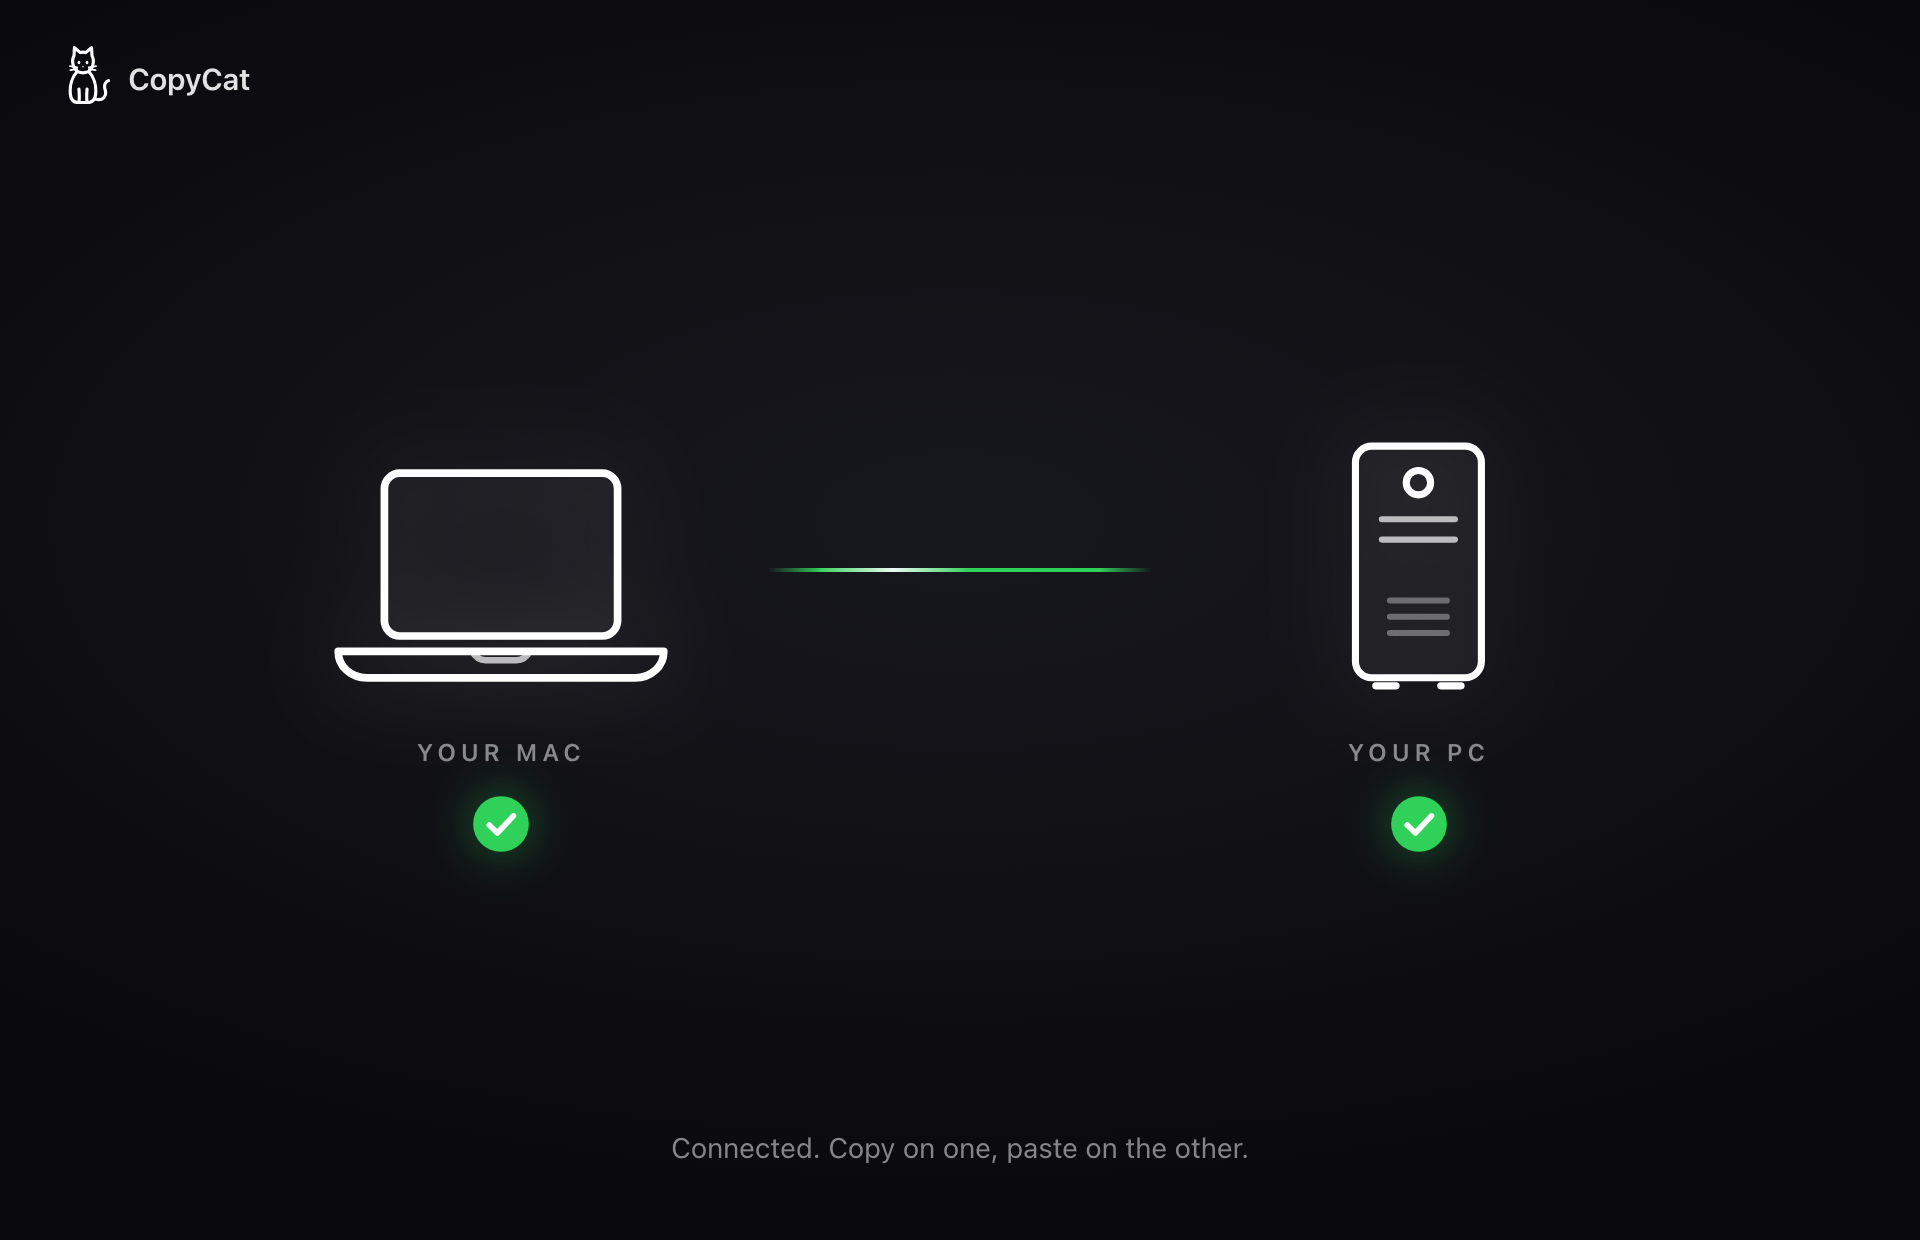
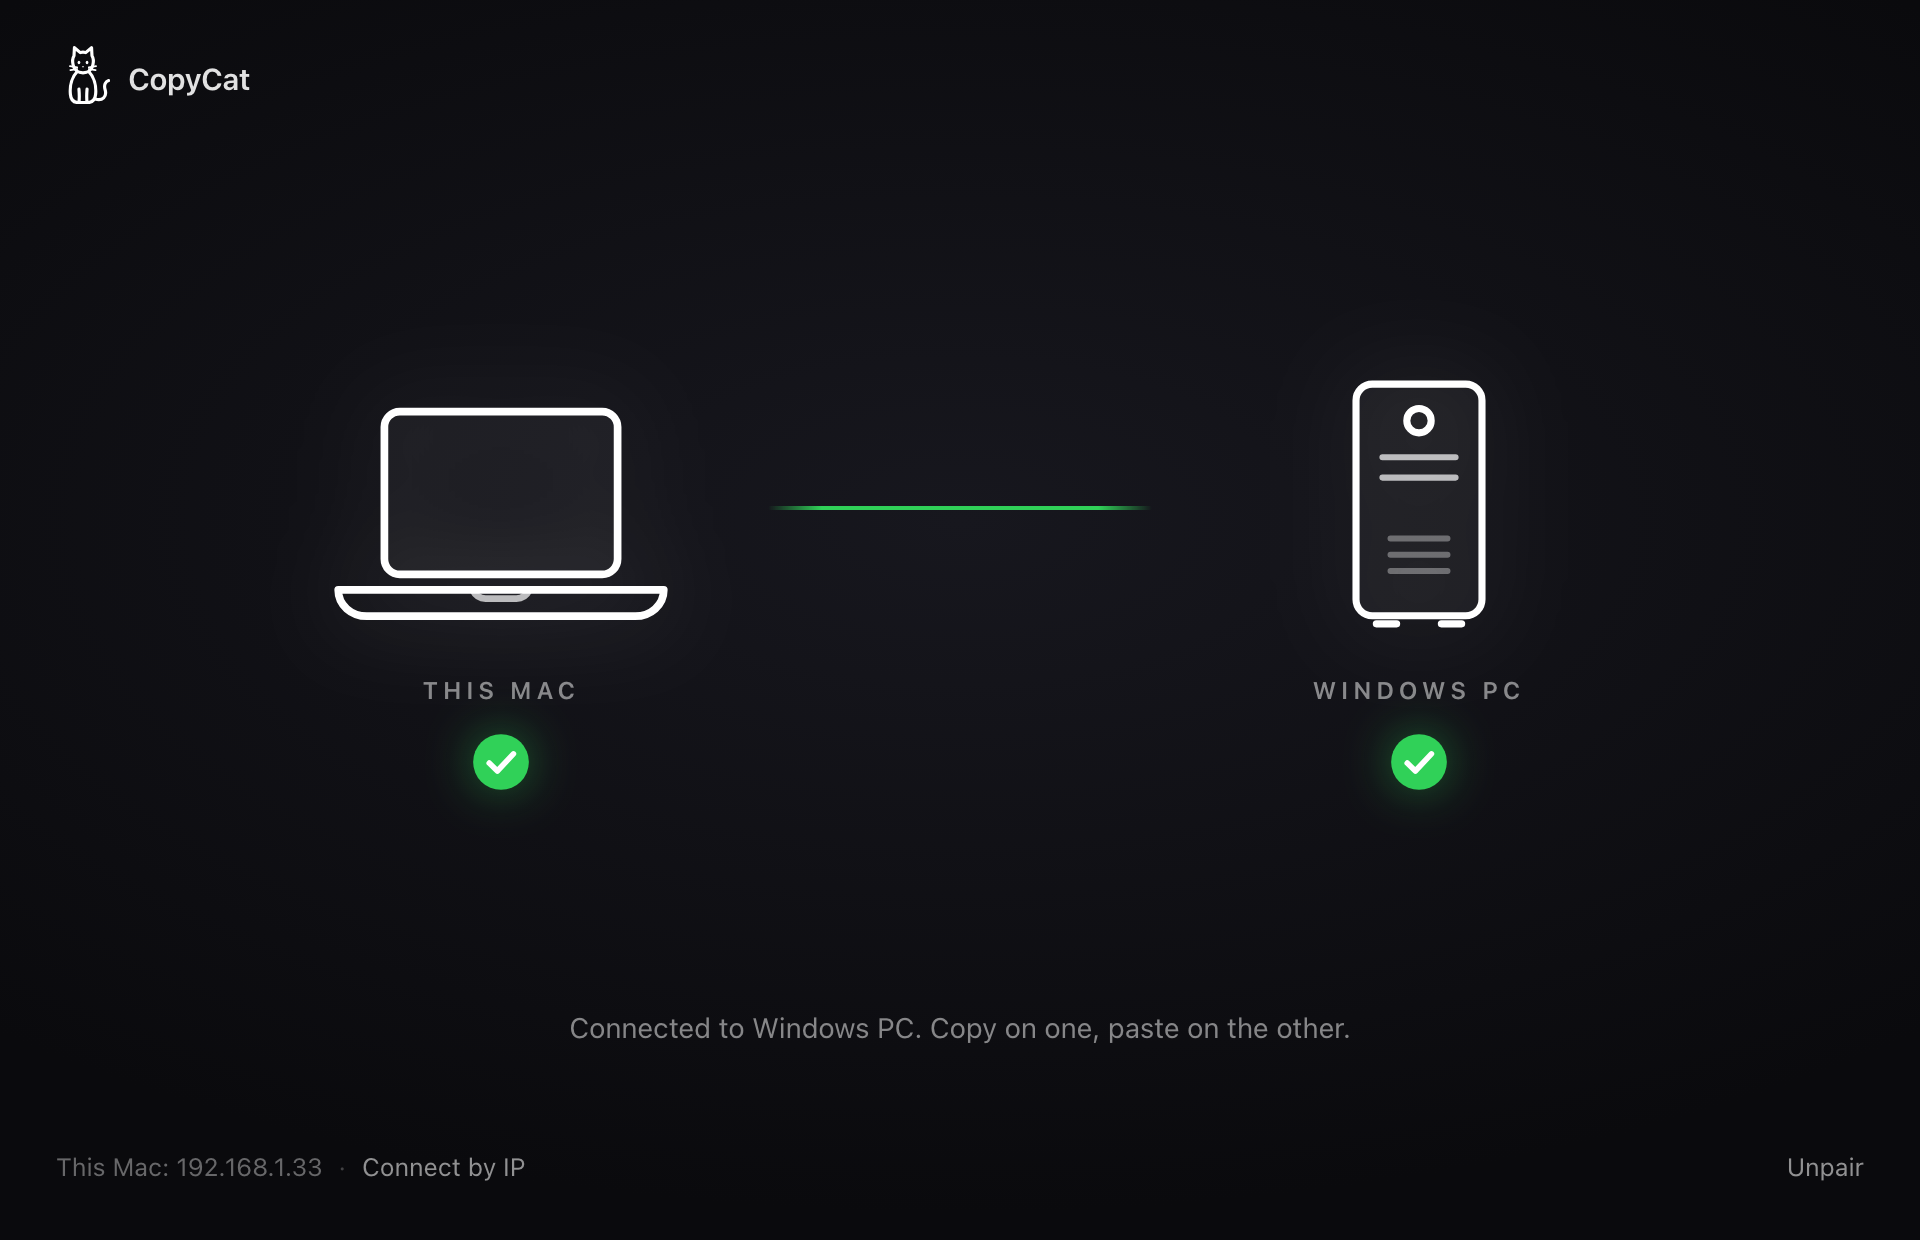
Rewrite the README with downloads, pairing and security; drop the terminal-only script

diff --git a/README.md b/README.md
@@ -1,64 +1,88 @@
 # CopyCat
 
-Copy on your Mac, paste on your Windows PC, and the other way around. CopyCat keeps both clipboards in sync over your home Wi-Fi. No cloud, no account, no third-party service.
+Copy on your Mac, paste on your Windows PC, and the other way around. CopyCat keeps two computers' clipboards in sync over your Wi-Fi. No cloud, no account, and everything it sends is encrypted.
 
 | Launch | Connected |
 |---|---|
 | ![CopyCat launch screen](screenshots/launch.png) | ![Mac and PC both connected](screenshots/connected.png) |
 
-## What it does
+## Download
 
-- **Launch animation:** the CopyCat wordmark fades in letter by letter, then a line-art cat draws itself, blinks and swishes its tail.
-- **Connection screen:** your Mac and your PC side by side. Grey dots mean not connected, a spinner means connecting, and a green check means connected.
-- **Text sync:** code, links, paragraphs, anything you copy as text.
-- **Both directions:** Mac to Windows and Windows to Mac.
-- **Auto-reconnect:** the PC retries every 5 seconds if the connection drops.
-- **Echo prevention:** text that just arrived is never sent back.
+| Computer | File |
+|---|---|
+| Mac (Apple Silicon, M1 or newer) | [CopyCat-mac.zip](https://github.com/vhrcam/clipboard-sync/releases/latest/download/CopyCat-mac.zip) |
+| Windows 10 / 11 | [CopyCat-windows.exe](https://github.com/vhrcam/clipboard-sync/releases/latest/download/CopyCat-windows.exe) |
+
+All versions are on the [Releases page](https://github.com/vhrcam/clipboard-sync/releases).
+
+### First launch on a Mac
+
+1. Unzip `CopyCat-mac.zip` and drag **CopyCat** into **Applications**.
+2. Open it. macOS says it can't verify the app, because CopyCat isn't signed with a paid Apple developer account. Click **Done**.
+3. Open **System Settings → Privacy & Security**, scroll down to "CopyCat was blocked", and click **Open Anyway**.
+4. When CopyCat asks to find devices on your local network, click **Allow**. This is how it finds your other computer.
+
+### First launch on Windows
+
+1. Run `CopyCat-windows.exe`.
+2. If "Windows protected your PC" appears, click **More info → Run anyway**. It appears because the app isn't code-signed.
+3. When Windows Firewall asks, tick **Private networks** and click **Allow**.
+
+## Pairing
+
+1. Open CopyCat on both computers, on the same Wi-Fi.
+2. They find each other on their own and both show a 6-digit code.
+3. Check that the codes match, then click **Pair** on both.
+
+That's it. From then on the two reconnect automatically whenever both are open. Copy on one and paste on the other, and a dot travels along the line each time something syncs.
+
+**If they don't find each other** (school and work Wi-Fi often block this): click **Connect by IP** at the bottom of one computer and type the IP shown at the bottom-left of the other.
+
+**To stop syncing with a computer**, click **Unpair** in the bottom-right corner.
 
 ## How it works
 
-- The Mac runs a WebSocket server and the PC connects to it.
-- Each side checks its clipboard every 0.3 seconds and sends anything new as a small JSON message.
-- Text received from the other computer is remembered before it's written to the clipboard, so it doesn't bounce back.
-- The app window is built with [pywebview](https://pywebview.flowrl.com/): Python runs the sync and an HTML/CSS screen shows the status, in a native window on both macOS and Windows.
+- Each copy of CopyCat runs a small WebSocket server and announces itself on the local network with mDNS (`_copycat._tcp`), the same way AirPlay and printers are found.
+- Every 0.3 seconds it checks the clipboard. New text is encrypted and sent to the paired computer, which writes it to its own clipboard.
+- Text that just arrived is remembered before it's written, so it never bounces back.
+- The window is HTML/CSS shown with [pywebview](https://pywebview.flowrl.com/), so the same Python code runs the app on macOS and Windows.
 
-## Run it
+## Security
 
-Set up once on each computer:
+- Each computer creates its own key pair on first launch (X25519).
+- When two computers connect, they agree on a fresh key for that session and encrypt everything with ChaCha20-Poly1305.
+- The pairing code is calculated from both computers' keys. If someone on the network tried to sit in the middle, the two screens would show different codes.
+- After pairing, each computer only trusts the other's exact key. A device that copies the name or the public key but doesn't have the secret key gets disconnected.
+- Nothing leaves your local network. Settings live in `~/Library/Application Support/CopyCat` (Mac) or `%APPDATA%\CopyCat` (Windows): `identity.key`, `paired.json` and `copycat.log`.
+
+## Run from source
 
 ```
 python3 -m venv venv
 source venv/bin/activate        # Windows: venv\Scripts\activate
 pip install -r requirements.txt
-```
-
-Open the app:
-
-```
 python app.py
 ```
 
-Terminal version of the sync, while it's being connected to the app. On the Mac:
+Run the tests:
 
 ```
-python clipboard.py server
+pip install pytest
+python -m pytest tests
 ```
 
-It prints the Mac's IP address. On the PC:
+Build the app yourself (makes `dist/CopyCat.app` on a Mac, `dist/CopyCat.exe` on Windows):
 
 ```
-python clipboard.py client <mac-ip>
+pip install pyinstaller
+pyinstaller CopyCat.spec
 ```
 
-## Status
-
-- [x] Clipboard sync engine (`clipboard.py`)
-- [x] App window, launch animation and connection screen (the statuses are a demo for now)
-- [ ] Connect the screen to the real sync
-- [ ] Package as a double-click `.app` and `.exe`
+GitHub Actions runs the tests and builds both versions on every push. Pushing a tag like `v1.0.0` publishes a release with both downloads attached.
 
 ## Limitations
 
 - Text only (no images or files yet)
-- Both computers must be on the same Wi-Fi
-- No encryption yet, so use it on your home network, not public Wi-Fi
+- Both computers must be on the same network
+- The window has to stay open (you can minimize it). Closing it stops syncing.
+- The Mac download is for Apple Silicon. Intel Macs can run it from source.
